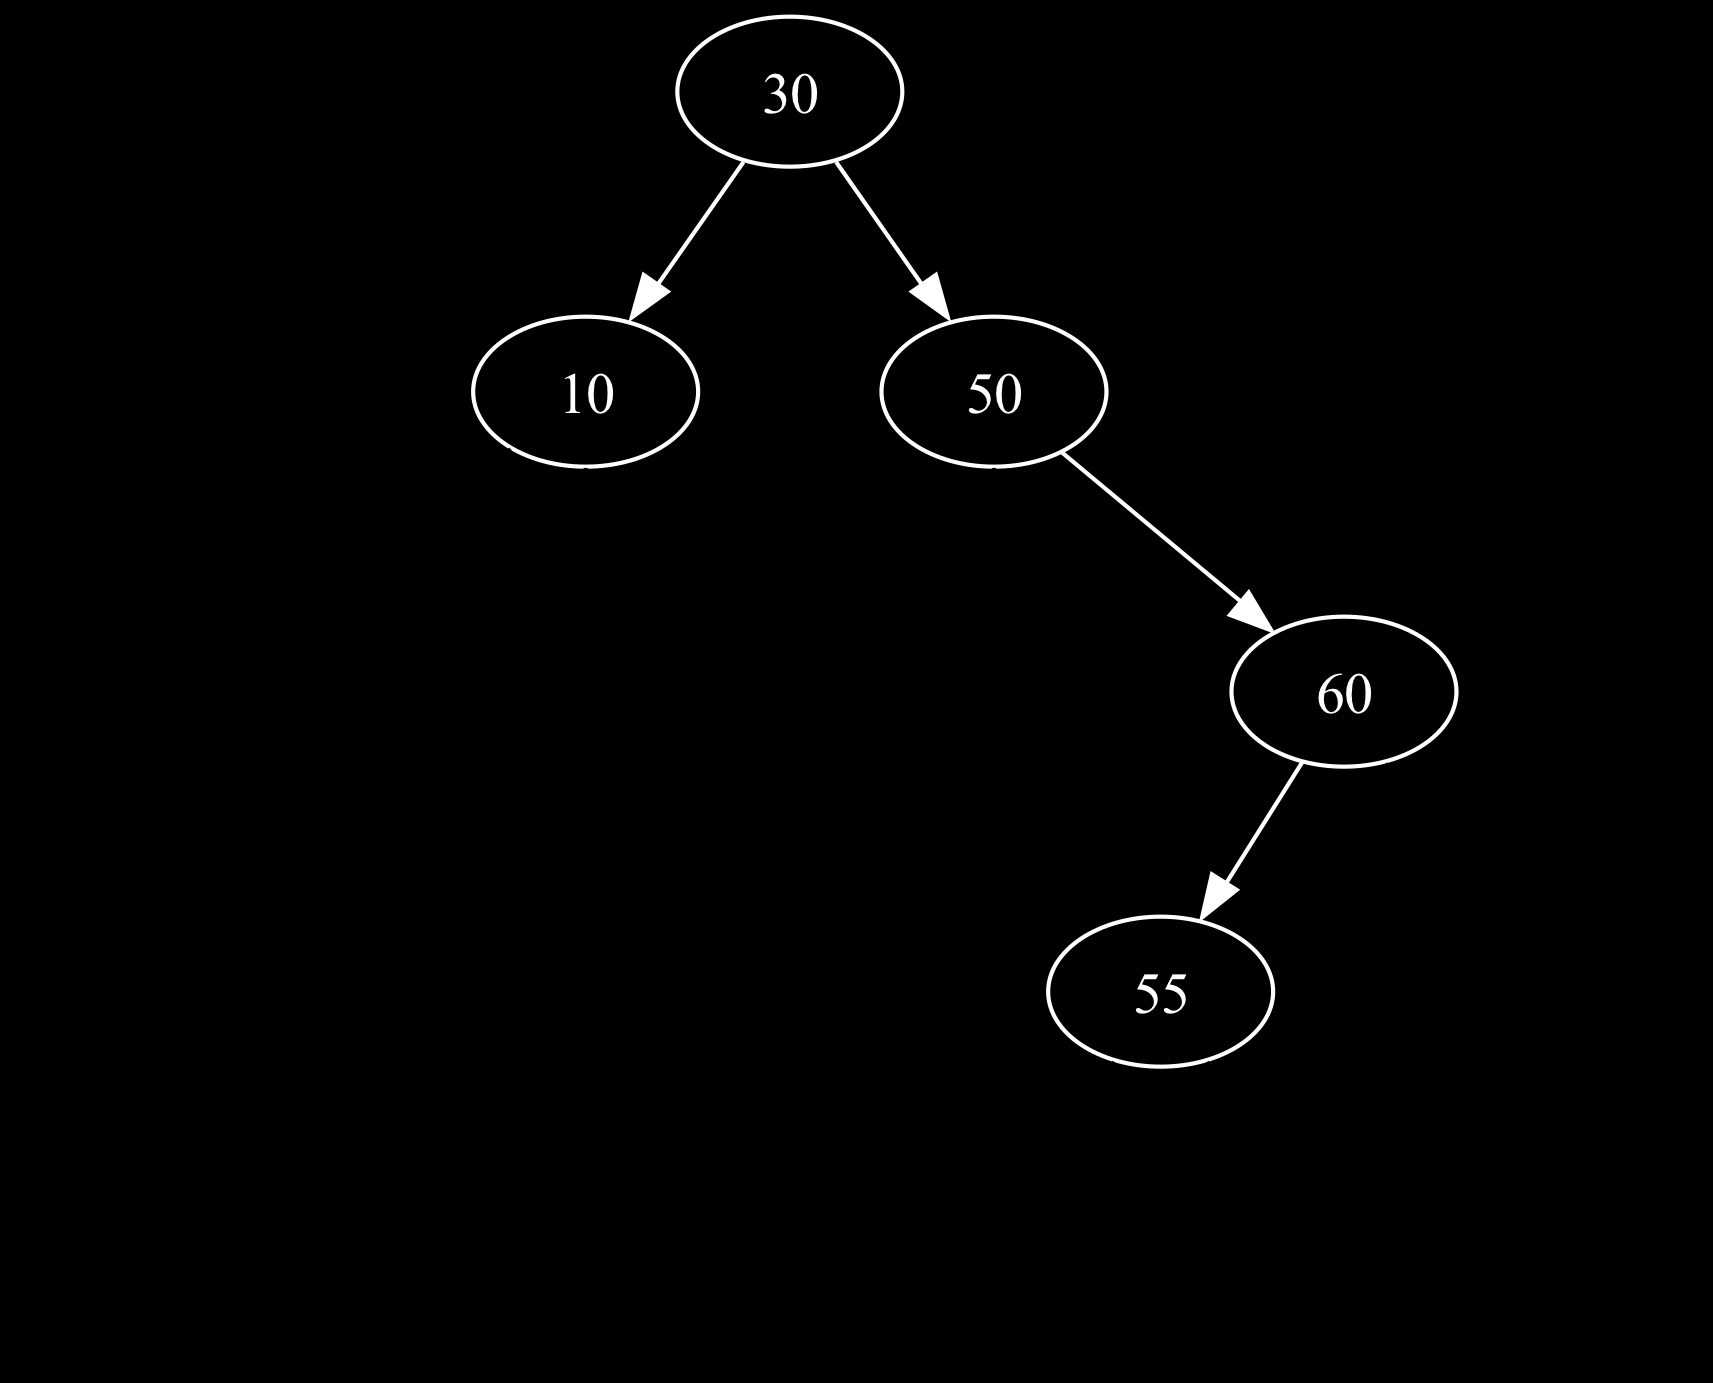
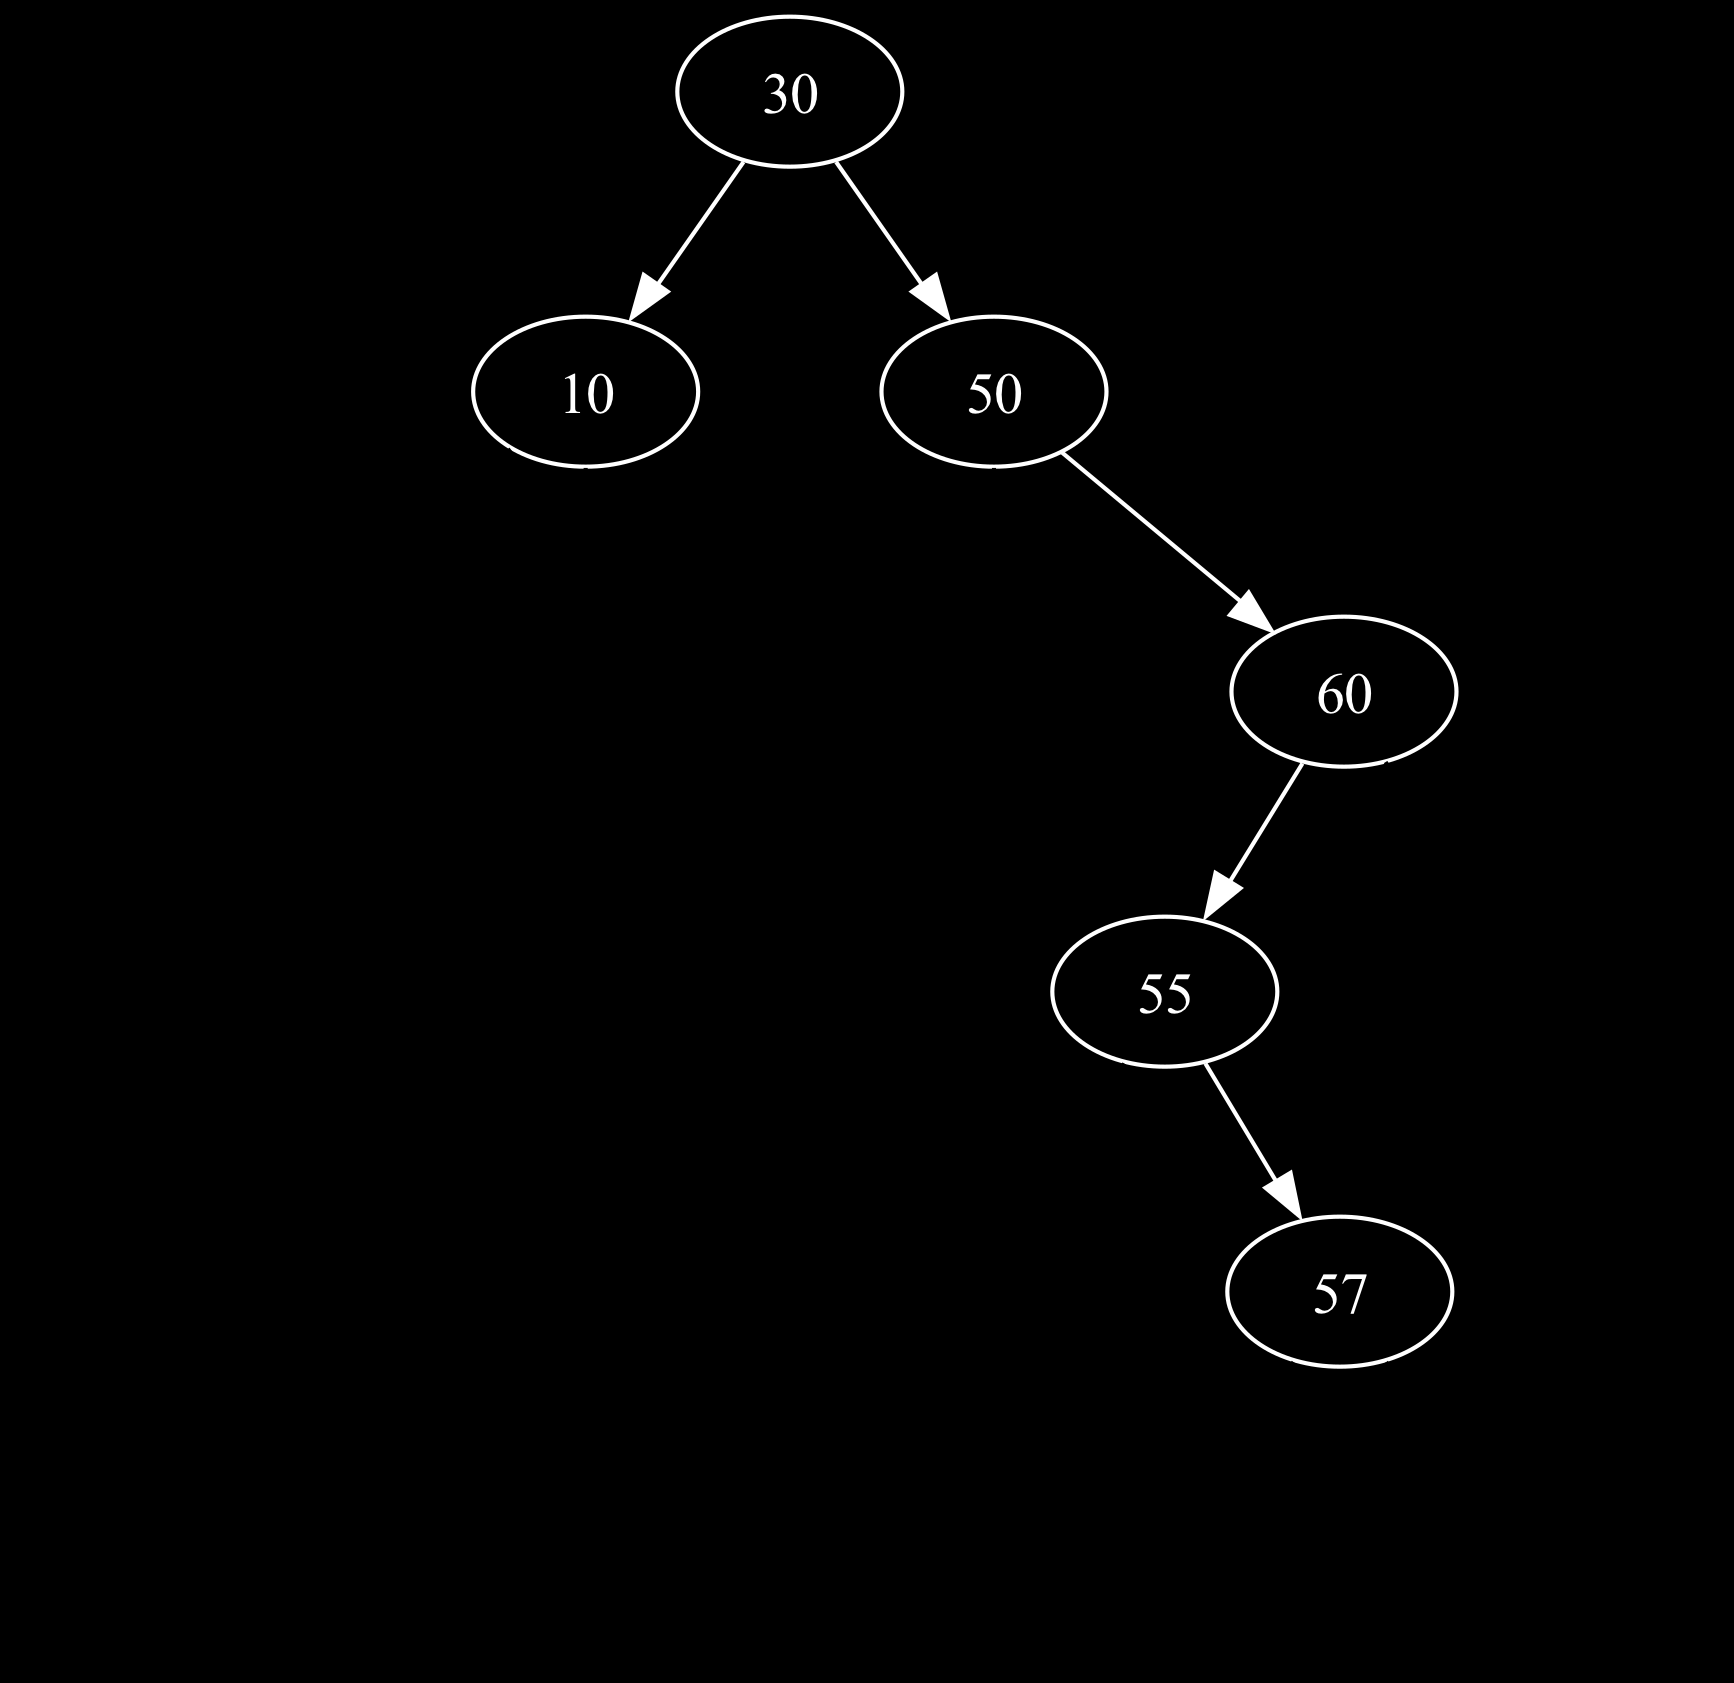
getting there

diff --git a/TreeItems/SplayTree.py b/TreeItems/SplayTree.py
@@ -25,25 +25,98 @@ def left_rotate(node):
     root.left = node
     return root
 
-# uses rotate functions to rotate right right. Returns the new tree. Given the original root
-def left_zigzig(node):
-    node.left = right_rotate(node.left.left)
-    root = right_rotate(node.left)
-    return root
-
-# uses the rotate functions to rotate left left. Returns the new tree. Given the original root
 def right_zigzig(node):
-    node.right = right_rotate(node.right.right)
-    root = right_rotate(node.right)
-    return root
+    parent = node.left
+    node.left = parent.right
+    parent.right = node
+
+    return right_rotate(parent)
+
+def left_zigzig(node):
+    parent = node.right
+    node.right = parent.right
+    parent.right = node
+
+    return left_rotate(parent)
+
+def right_zigzag(node):
+    parent = node.left
+    node.left = parent.right
+    parent.right = node
+
+    return right_rotate(parent)
+
+def left_zigzag(node):
+    parent = node.right
+    node.right = parent.left
+    parent.left = node
+
+    return left_rotate(parent)
 
 def splay(root, key):
+    print('s(p)laying')
+    # if we have none we return none
     if not root:
         return None
-    if root.left and root.left.key == key:
-        return right_rotate(root.left)
-    elif root.right and root.right.key == key:
-        return left_rotate(root.right)
+    # if we found the key return the root
+    if key == root.key:
+        return root
+    
+    if key < root.key:
+        if not root.left:
+            return root
+
+        if key == root.left.key:
+            return right_rotate(root)
+
+        if key < root.left.key:
+            root.left.left = splay(root.left.left, key)
+            return right_zigzig(root)
+        else:
+            root.left.right = splay(root.left.right, key)
+            if not root.left.right:
+                return right_zigzig(root)
+            return left_zigzag(root)
+
+    else:
+        if not root.right:
+            return root
+
+        if key == root.right.key:
+            return left_rotate(root)
+
+        if key > root.right.key:
+            root.right.right = splay(root.right.right, key)
+            return left_zigzig(root)
+        else:
+            root.right.left = splay(root.right.left, key)
+            if not root.right.left:
+                return left_zigzig(root)
+            return right_zigzag(root)
+        
+def insert(root, key):
+    print("inserting")
+    root = splay(root, key)
+    if root.key == key:
+        raise RuntimeError('Duplicate values') # we will handle this later
+    new_root = Node(key, None, None)
+    if root.key < key:
+        new_root.left = root
+        new_root.right = root.right
+        root.right = None
+    elif root.key > key:
+        new_root.right = root
+        new_root.left = root.left
+        root.left = None
+    return new_root
+
+def delete(root, key):
+    print("deleting")
+
+# returns the key at the top after splaying the seeked key. That key will either be the seeked key or the nearest key
+def search(root, key):
+    root = splay(root, key)
+    return root.key
     
 
 # these three functions will return a list of nodes and I'll determine later how I want to parse that list

diff --git a/Tests.py b/Tests.py
@@ -38,9 +38,9 @@ tree6 = load_tree("""{"k": 30,
 example_tree = load_tree("""{"k": 30, "l": {"k": 10, "l": null, "r": null}, 
                                       "r": {"k": 50, "l": null, 
                                                      "r": {"k": 60, 
-                                                                   "l": {"k": 55, "l": null, "r": null},
+                                                                   "l": {"k": 55, "l": null, 
+                                                                                  "r": {"k": 57, "l": null, "r": null}},
                                                                    "r": null}}}""")
-
 def printTrees():
     construct_graph(tree).write_png('Images/tree.png')
     construct_graph(tree2).write_png('Images/tree2.png')
@@ -50,5 +50,49 @@ def printTrees():
     construct_graph(tree6).write_png('Images/tree6.png')
     construct_graph(example_tree).write_png('Images/example_tree.png')
 
-printTrees()
-    
+def zigzig(tree):
+    tree3 = right_zigzig(tree)
+    construct_graph(tree3).write_png('Images/modified_tree3.png')
+    tree3 = left_zigzig(tree3)
+    construct_graph(tree3).write_png('Images/modified_tree3_2.png')
+
+def zigzag(tree):
+    tree5 = left_zigzag(tree)
+    construct_graph(tree5).write_png('Images/modified_tree5.png')
+
+def zigzag2(tree):
+    tree6 = right_zigzag(tree)
+    construct_graph(tree6).write_png('Images/modified_tree6.png')
+
+def splayTest(tree):
+    test_tree = splay(tree, 57)
+    construct_graph(test_tree).write_png('Images/modified_example_tree.png')
+
+def searchTestFound(tree):
+    new_tree = search(tree, 60)
+    construct_graph(tree).write_png('Images/modified_search.png')
+
+def searchTestNotFound(tree):
+    new_tree = search(tree, 65)
+    construct_graph(tree).write_png('Images/modified_search_nf.png')
+
+def insertTreeTest(tree):
+    new_tree = insert(tree, 30)
+    construct_graph(new_tree).write_png('Images/modified_insert_tree.png')
+    new_tree = insert(new_tree, 45)
+    construct_graph(new_tree).write_png('Images/modified_insert_tree.png')
+    new_tree = insert(new_tree, 10)
+    construct_graph(new_tree).write_png('Images/modified_insert_tree.png')
+    new_tree = insert(new_tree, 60)
+    construct_graph(new_tree).write_png('Images/modified_insert_tree.png')
+    new_tree = insert(new_tree, 16)
+    construct_graph(new_tree).write_png('Images/modified_insert_tree.png')
+
+#printTrees()
+#zigzig(tree3)
+#zigzag(tree5)
+#splayTest(example_tree)
+#searchTestFound(example_tree)
+#searchTestNotFound(example_tree)
+insertTreeTest(tree2)
+

diff --git a/Utility/pydot_graph_util.py b/Utility/pydot_graph_util.py
@@ -5,7 +5,7 @@ from pydot import Edge as PydotEdge
 
 hinted = False
 
-from TreeItems.tree import Node
+from TreeItems.SplayTree import Node
 
 # Visualization helper -- honestly impressed I was able to repurpose this well
 def construct_graph(root: Node) -> Dot:

diff --git a/README.md b/README.md
@@ -4,7 +4,7 @@
 
 I'm wriitng a file manager that uses a modified version of a splay tree to effectively allow a user to access files in a way that can be considered more efficient. It's intended to be modeled after the Windows file manager that also uses a splay tree.
 
-I'm hoping that I can use the traversal functions to provide sections in my file manager such as a recents tab or a least recent tab. I'm also building additional features as I go.
+I'm hoping that I can use the traversal functions to provide sections in my file manager such as a recents tab and other important orders that I may want. I'm also building additional features as I go.
 
 I'm using Python because I have a lot of experiennce writing these sorts of projects in Python and I'm very comfortable with the modules that would be necessary to make something like this work well.
 
@@ -16,9 +16,9 @@ Something that recently came to mind was adjusting the paths entered into the tr
 
 ### Main.py
 
-Runs the program using the other files available in the directory.
+Runs the program using the other files available in the directory. This file makes use of Tkinter to put together the gui that represents the file manager.
 
-### tree.py
+### SplayTree.py
 
 Uses a splay tree to handle the file manager. This will allow me to put together a recents selection and a bunch of other folders relating to different traversal methods.
 
@@ -27,9 +27,8 @@ so that I can have an option to provide a more accurate recent and least recent 
 
 A big consideration when looking at what the keys of the nodes will look like is how to represent file locations. I'm currently planning to use filepaths.
 
-### gui.py
-
-This will be where the gui class is built. I'm considering building the class using tkinter and maybe making an attempt using another module like Kivy. The front end items will be contained here.
+*** Insert Function ***
+The insert function was modified from what is conventially done because I believed it to be more efficient and faster. I may change this later. But essentially the way my splay tree currently behaves--when you insert it splays BEFORE inserting, causing the root of the tree to be the nearest found ancestor which then gets accordingly made into the proper tree.
 
 ### FileManagement.py
 
@@ -47,6 +46,6 @@ This is where most of my testing will be housed and a lot of tree models to use 
 
 ## Using the File Manager
 
-### Files Folder
+### ManagedFiles Folder
 
-The files folder will be where the files that come up in the file manager will be. 
+This folder will be where the files that come up in the file manager will be.
